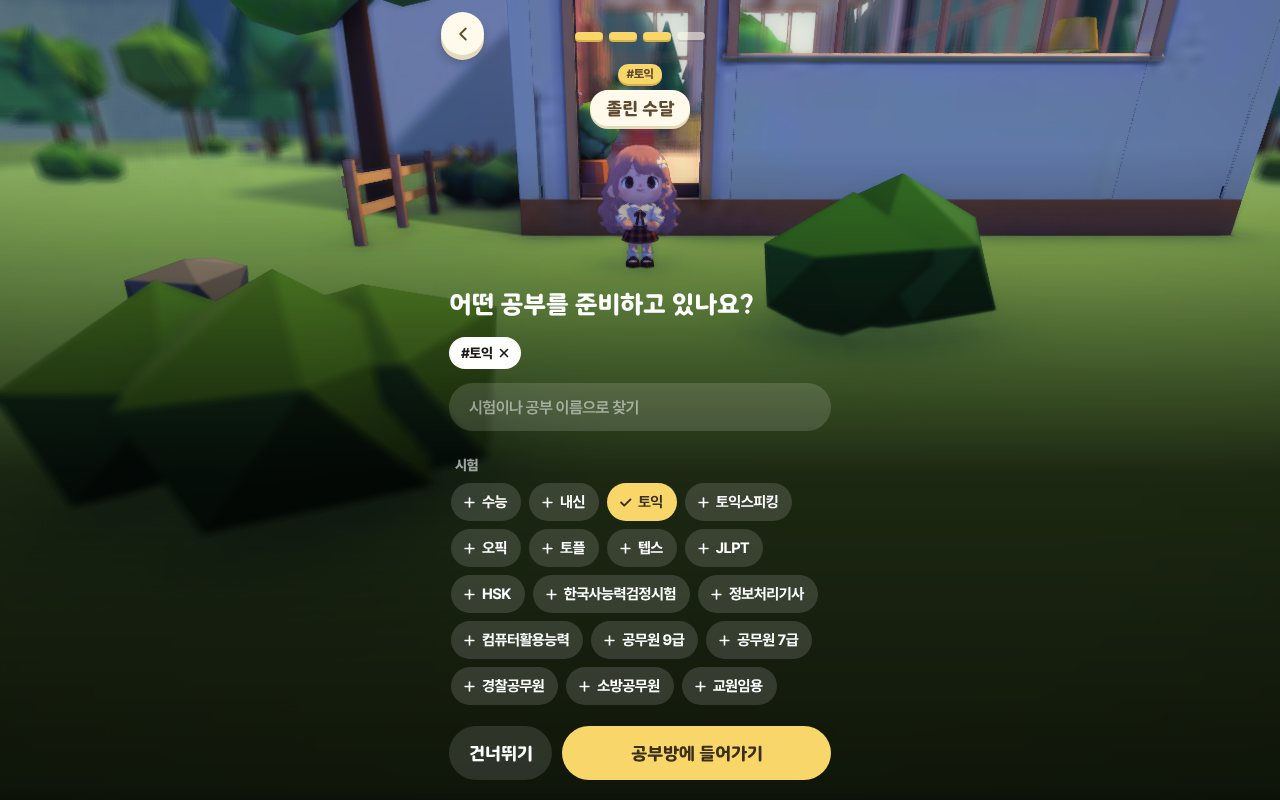
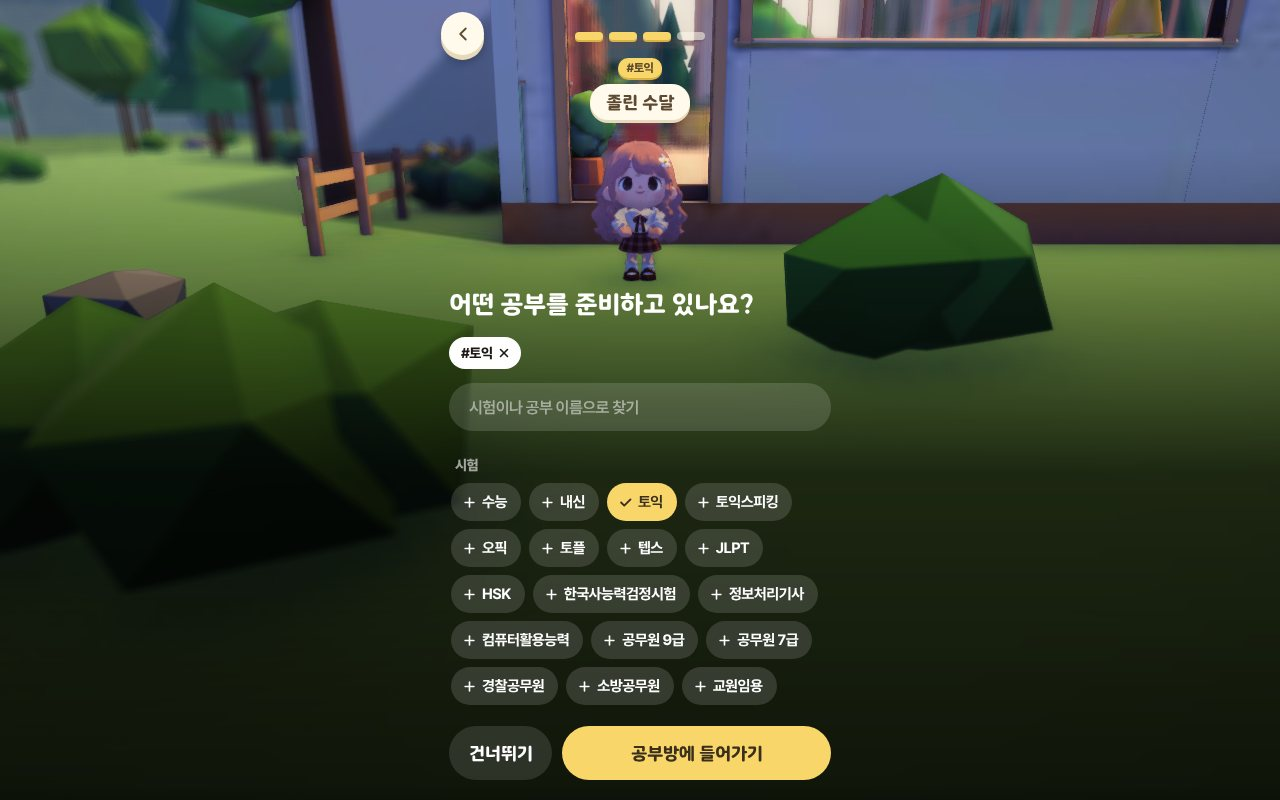
fix(web/onboarding): widen gender button gap and move camera closer
사용자 요청(2026-11-24): 남·여 단추 사이 간격을 14px에서 28px로 늘리고, 문밖 카메라를 캐릭터 쪽으로
당긴다(캐릭터 고르기 화면 세로 1.25→1.12m·가로 2.0→1.8m, 이름 1.55→1.3m, 목표 1.75→1.5m).
캡처 1–3단계를 다시 찍었다.

Claude-Session: https://claude.ai/code/session_01UNZt6MP28b6hnoNrji3C1C

diff --git a/frontend/src/feature/study/onboarding/onboardingScene.ts b/frontend/src/feature/study/onboarding/onboardingScene.ts
@@ -169,9 +169,9 @@ export class OnboardingScene {
     }
     const focus = this.step === 'pick'
       // 두 캐릭터와 발밑 이름 알약.
-      ? frontCamera(new Vector3(standX + 0.2, lawnY + 0.42, doorZ), 1.25, 2.0, size, this.free(size))
+      ? frontCamera(new Vector3(standX + 0.2, lawnY + 0.42, doorZ), 1.12, 1.8, size, this.free(size))
       // 머리 위 이름표(목표 단계는 태그까지)가 칸 안에 들어오게 위를 더 남긴다.
-      : frontCamera(new Vector3(standX + 0.4, lawnY + (this.step === 'goal' ? 0.68 : 0.62), doorZ), this.step === 'goal' ? 1.75 : 1.55, 1.4, size, this.free(size))
+      : frontCamera(new Vector3(standX + 0.4, lawnY + (this.step === 'goal' ? 0.68 : 0.62), doorZ), this.step === 'goal' ? 1.5 : 1.3, 1.2, size, this.free(size))
     this.camera = this.camera && !this.reduceMotion ? StudyRoomSeatCamera.lerp(this.camera, focus, 1 - Math.exp(-dt * 4)) : focus
     return { camera: this.camera, actors, hiddenSeat: 0 }
   }

diff --git a/frontend/src/feature/study/onboarding/onboarding.module.css b/frontend/src/feature/study/onboarding/onboarding.module.css
@@ -56,7 +56,7 @@
 .body > * { flex-shrink: 0; }
 .title { margin: 0 0 18px; font-family: var(--font-round); font-size: 24px; font-weight: 800; line-height: 1.3; outline: none; word-break: keep-all; text-wrap: balance; }
 
-.genders { display: flex; justify-content: center; gap: 14px; }
+.genders { display: flex; justify-content: center; gap: 28px; }
 /* 정사각형 단추(사용자 요청 2026-11-24: 가로세로 1:1). 한 변은 최대 128px로 두어 캐릭터 칸을 덜 가린다. */
 .choice {
   flex: 1 1 0; max-width: 128px; aspect-ratio: 1 / 1; border-radius: 28px; cursor: pointer;
